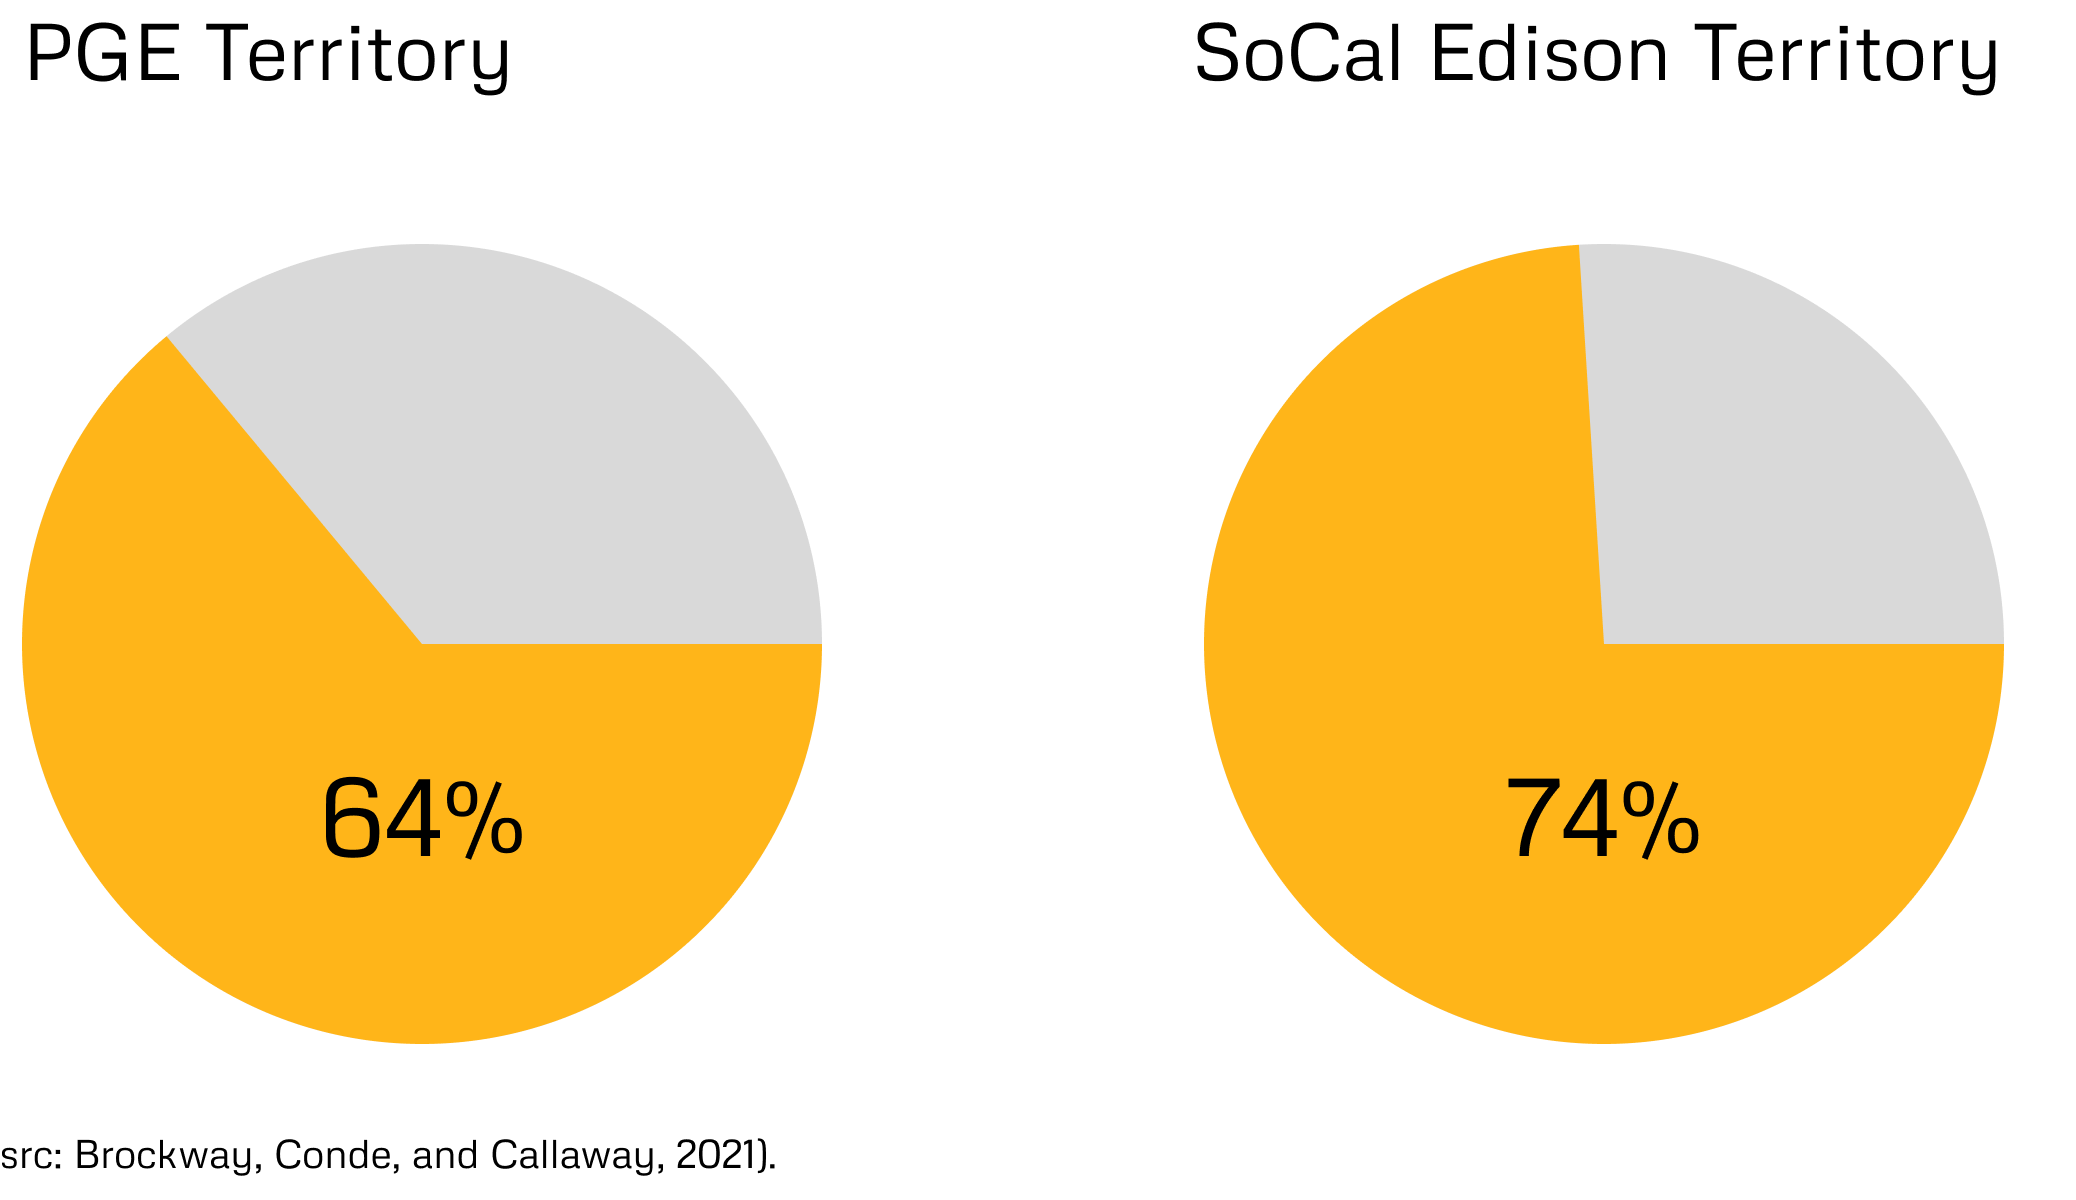
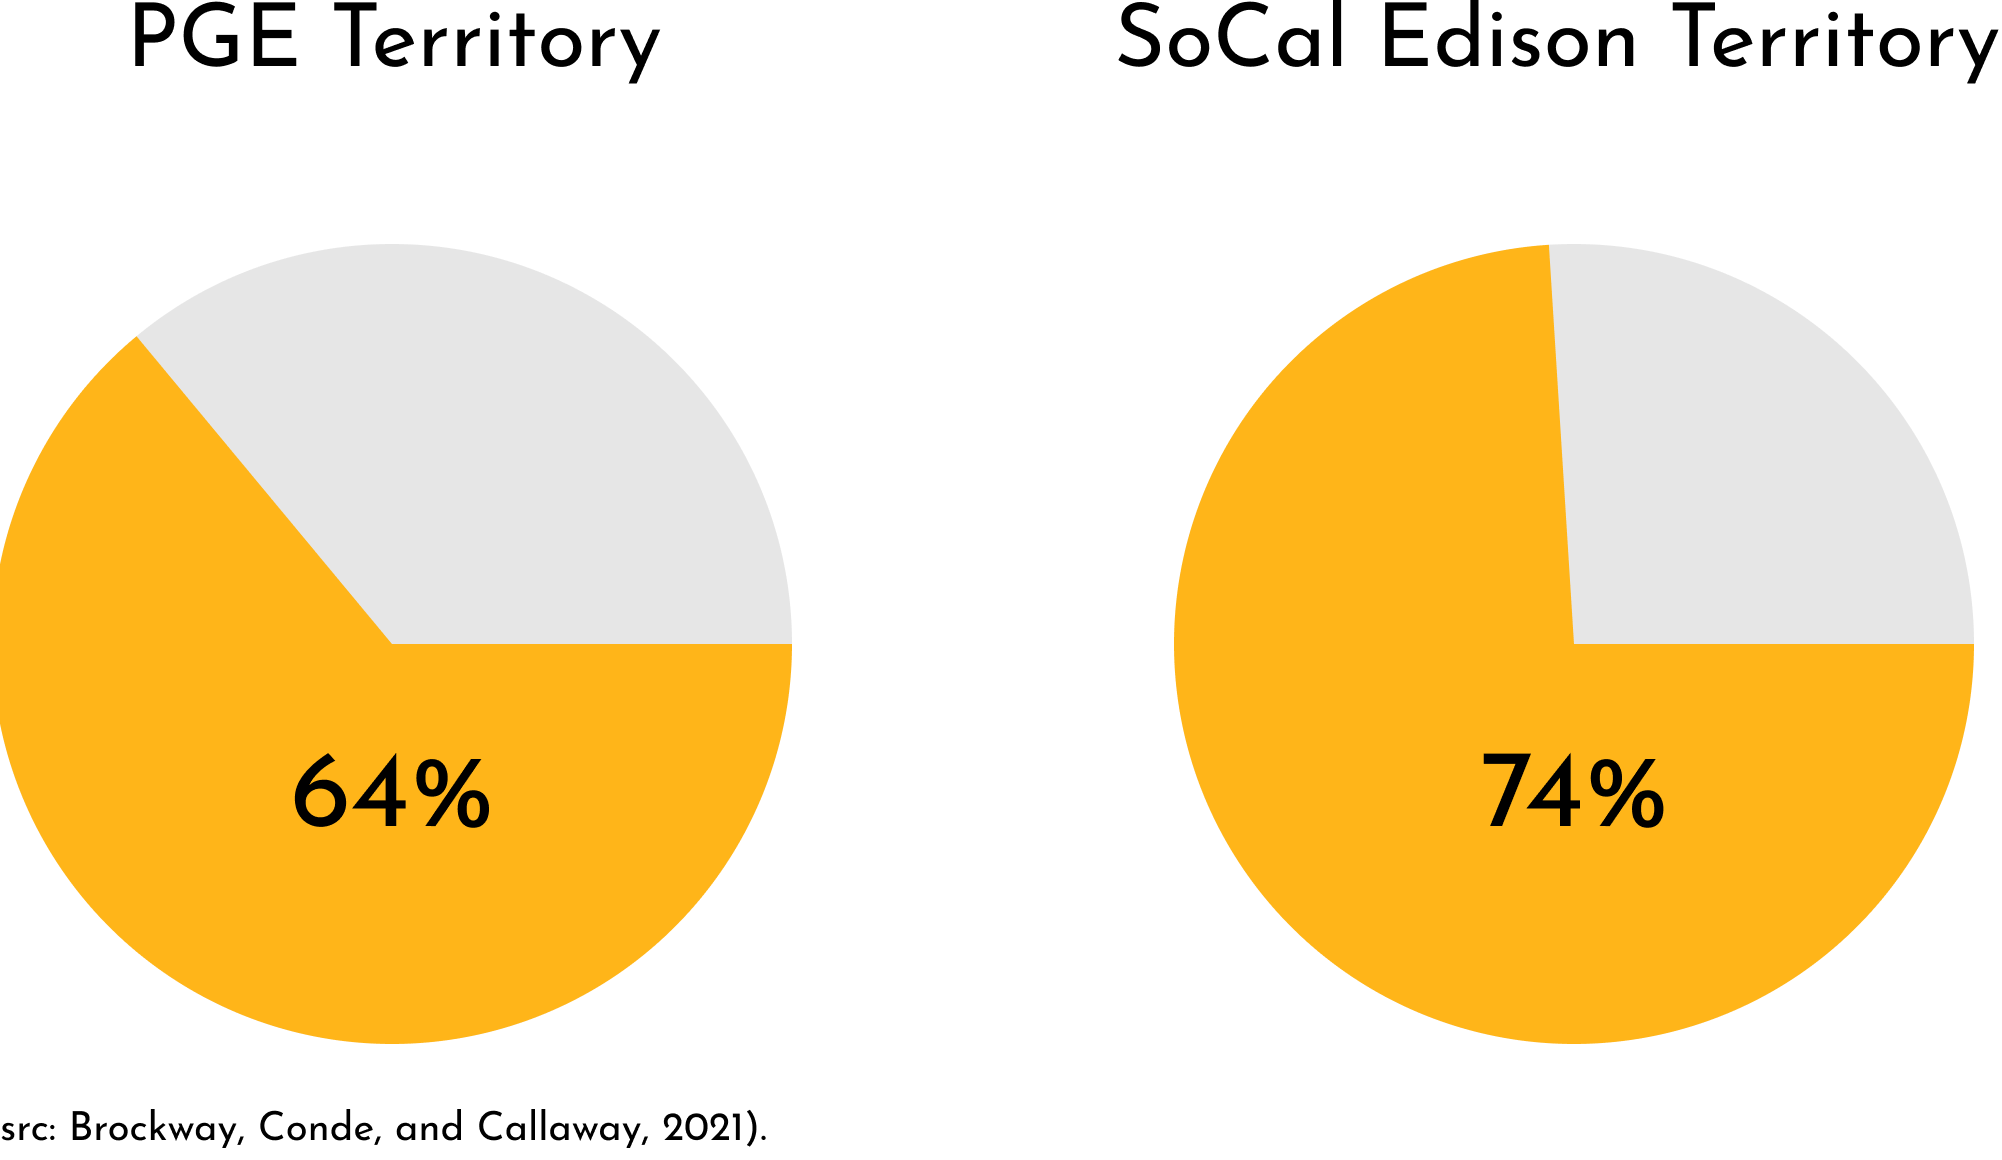
More on accessibility - added some flat infographics

diff --git a/templates/equity.html b/templates/equity.html
@@ -119,7 +119,7 @@
         </div> <!-- end row -->
 
         <div class="row pb-5">
-          <div class="col-12 p-5 bg-dark-subtle">
+          <div class="col-12 p-5 bg-primary">
             <h5>2023 January Power Outages in California Due to Severe Storms</h5>
             <p>
               <br>
@@ -141,21 +141,34 @@
         </div> <!-- end row -->
 
         <div class="row">
-          <div class="col-10 px-5 pb-5">
+          <div class="col-10 px-5">
             <h5>At-Home ZEV Charging as a Grid Stressor</h5>
             <p><br>
               A large portion of electric grid infrastructure in California is ill-equipped to handle at-home electric vehicle charging. 
               <br><br>
               Percent of Households that lack access to new loads of electricity for EV Charging
             </p>
+          </div> <!-- end col -->
+        </div> <!-- end row -->
+
+        <div class="row">
+          <div class="col-12 px-5">
             <img src="../static/images/abilitytochargeathome.png" style="max-width: 50%; margin-left: 25%;" class="pb-5">
+          </div> <!-- end col -->
+        </div> <!-- end row -->
+
+        <div class="row">
+          <div class="col-6 px-5 pb-5">
             <p>
               In order to meet the demands of additional energy-intensive applications, such as electric vehicle charging, the electrical grid would need to make upgrades or households would need to turn to increased solar photovoltaic adoption in order to make up for the additional load. 
               <br><br>
               However, not only does the electric grid not have the infrastructure to account for new loads, the grid also may not have adequate hosting capacity for many households to install or adopt solar PV (Brockway, Conde, and Callaway, 2021).
-              <br>
+              <br><br>
               Grid constraints on solar PV adoption include thermal constraints, power quality constraints, protection grid constraints, as well as physical building suitability for PV installation. 
             </p>
+          </div> <!-- end col -->
+          <div class="col-6 px-5 pb-5">
+            <img src="../static/images/gridconstraints.png" style="max-width: 100%; height: auto;">
           </div> <!-- end col -->
         </div> <!-- end row -->
 
@@ -186,7 +199,18 @@
           </div> <!-- end col -->
         </div> <!-- end row -->
         <div class="row">
-          <div class="col-12 px-5 pt-5">
+          <div class="col-12 px-5">
+             <!-- DESCRIPTION OF THE CHART -->
+             <hr class="border border-secondary border-1 opacity-100" /> 
+             <h5>See how access to public chargers in counties in California differ.  
+             </h5>
+             <hr class="border border-secondary border-1 opacity-100" /> 
+             <br>
+             <!-- END -- DESCRIPTION OF THE CHART -->
+          </div>
+        </div>
+        <div class="row">
+          <div class="col-12 px-5">
             <div id="observablehq-allCharts-d5fb0956"></div>
             <div id="observablehq-calls-d5fb0956"></div>
             <!-- <p>Credit: <a href="https://observablehq.com/d/747cf5be98c1e86c">Accessibility of Chargers by Clara Hu</a></p> -->
